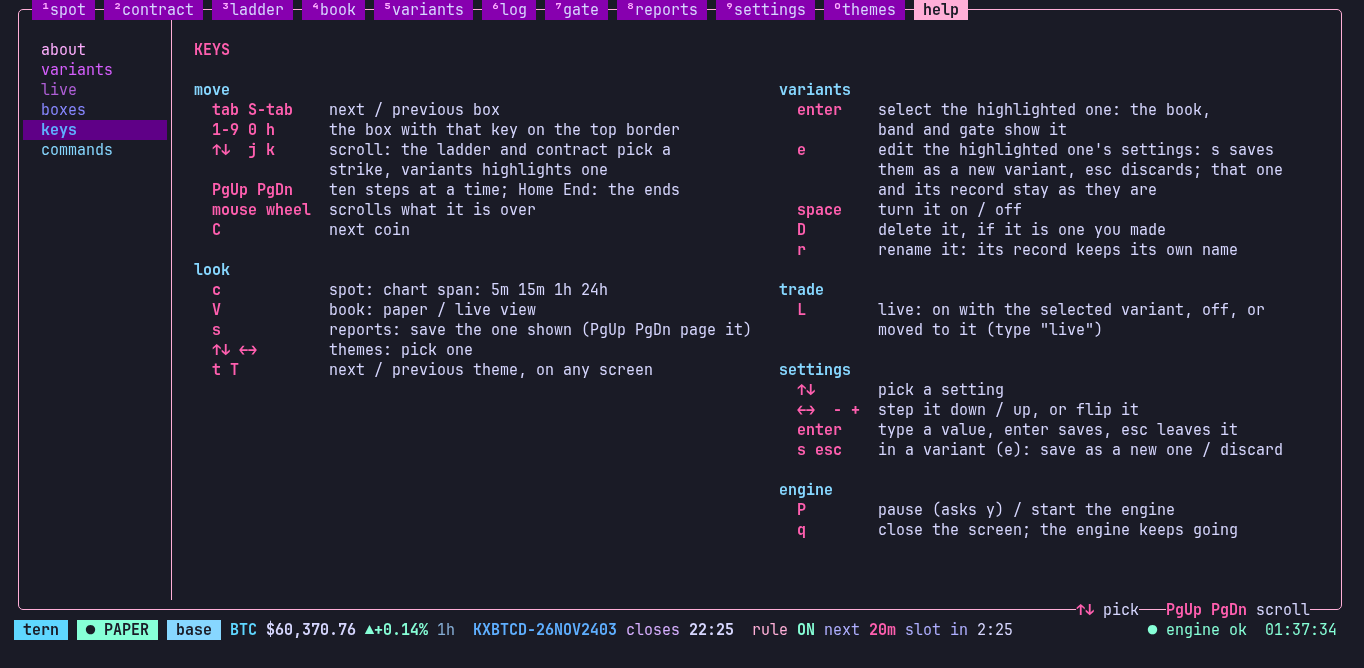
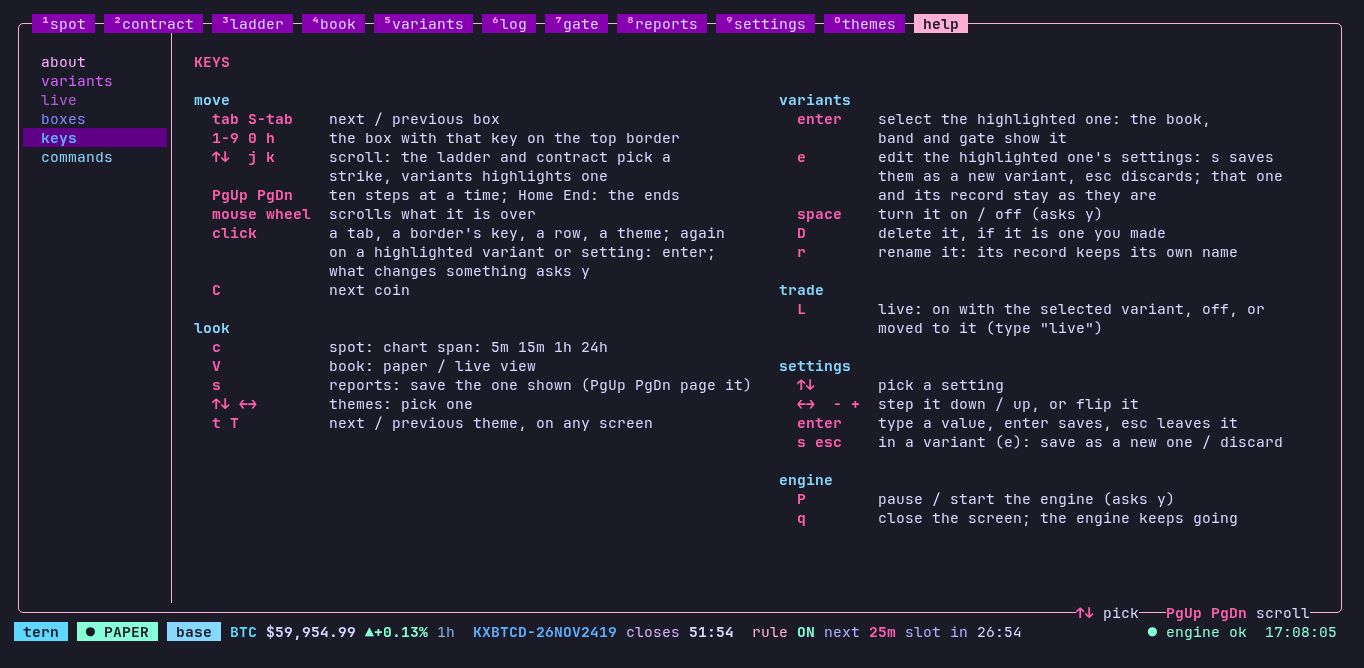
README: the mouse, the phone pages and the web screen, with screenshots

diff --git a/README.md b/README.md
@@ -241,7 +241,7 @@ Requests are signed (Ed25519 or RSA-PSS) in pure Python, checked against openssl
 |---|---|---|
 | everywhere | `1`–`9` `0` `h` `tab` shift+tab | show a box |
 | everywhere | `↑↓` `j` `k` `PgUp` `PgDn` `Home` `End` | move in the box; so does the mouse wheel |
-| everywhere | click | show the tab, press the border's key, highlight the row, use the theme, paper / live in the book; again on a highlighted variant or setting: `enter`. A click that changes something asks `y`. Shift+drag selects text |
+| everywhere | click | what the key there does: see Mouse |
 | everywhere | `t` / `T` | next / previous color theme |
 | everywhere | `P` | pause / start the engine (asks `y`) |
 | everywhere | `q` | close the screen; the engine keeps running |
@@ -256,6 +256,33 @@ Requests are signed (Ed25519 or RSA-PSS) in pure Python, checked against openssl
 | reports | `s` | save the one shown |
 | settings | `←→` `enter` | step / type a value |
 | themes | `↑↓` `←→` | pick one |
+
+### Mouse
+
+The terminal screen takes the mouse, in any terminal emulator that reports it, and so does the web screen:
+
+| Click | What it does |
+|---|---|
+| a tab | shows that box |
+| a key on a border | presses it; each of `↑↓` `←→` `PgUp PgDn` is its own |
+| a ladder, variants, reports or help row | highlights it |
+| the highlighted variant, again | `enter`: selects it |
+| a setting, in the settings or a variant's | highlights it; again: `enter`. Each slot and coin is its own |
+| a theme | uses it |
+| paper / live in the book | shows that one |
+
+The wheel scrolls what it is over, and shift+drag selects text. A click does no more than its key: going live still has
+`live` typed.
+
+**Stray clicks.** What changes something asks first, and only `y` goes ahead; any other key leaves it, and clicks do nothing
+while a question is up. Turning a variant on or off, starting and pausing the engine and deleting a variant ask whether
+they are clicked or pressed. Turning live off, changing a desk setting, discarding an edit and closing the screen ask
+when they are clicked; their keys are at once, so `L` is still the quick way out of live.
+
+<img width="1364" height="668" alt="Turning a variant off asks first" src="docs/screenshots/17-question.png" />
+
+The bare Linux console is not a terminal emulator: ncurses gets the mouse from gpm there, if it is built with it, and the
+console's fonts have no braille for the charts.
 
 ### Reports
 
@@ -292,22 +319,23 @@ accent, and color only for gains, losses and warnings. Full color needs a 256-co
 
 <img width="1364" height="668" alt="The mint chip theme" src="docs/screenshots/10-theme-mint-chip.png" />
 
+<img width="1364" height="668" alt="The grape theme" src="docs/screenshots/11-theme-grape.png" />
+
 ## The web screen
 
 `tern web` serves the screen at http://localhost:8787/ (`--port` to move it). It is not a copy of the
 screen: each browser tab runs the real screen code on a virtual terminal, and the page paints its cells
 with the colors and font from foot's config if there is one, or a built-in set. So it looks and behaves the same: the tabs, `c`
 chart span, `C` coins, `t`/`T` themes, `V` paper/live, `enter` selects a variant (for that browser),
-themes, `↑↓ ←→` and the wheel. Clicking a tab, a key on a box's border, or a ladder or variant row
-does what the key would; on a phone, drag to scroll.
+themes, `↑↓ ←→`, the wheel and clicks (see Mouse). Phones get pages of their own: see Phones.
+
+<img width="1364" height="668" alt="The spot box in a browser" src="docs/screenshots/16-web-screen.png" />
 
 It is view only. `q`, `P`, `L`, `r`, `D`, `space` and `e` do nothing there, and their
 hints are not drawn. The settings box shows the settings but changes only what that browser's log box shows.
 The web screen writes no command files and never touches the terminal's `dash.json` or `view.json`: each browser keeps its own settings. It writes `view-web.json` (in the same tmpfs folder)
 with the coins and strikes its viewers have up, so the engine sends those strikes' contract history
 too; the engine ignores the file 30 seconds after the last viewer leaves.
-
-<img width="1364" height="668" alt="The grape theme" src="docs/screenshots/11-theme-grape.png" />
 
 **Remote access.** Off localhost (`--host 0.0.0.0`) it will not start without a password and a TLS certificate.
 
@@ -332,17 +360,36 @@ Secure, SameSite=Strict cookie. After a new password, restart `tern-web`: every 
 everyone make every sign-in wait. To reach it from another network, allow the port (8787 by default) through
 the host's firewall, and forward it to the host if there is NAT in between.
 
-**Phones** get pages of their own: one at a time, with a menu button at the bottom that lists them (home, spot, ladder,
-book, variants, log, gate, reports, themes). Tap a strike or a variant to open it; hold a chart to read it. They are
-picked by the browser's headers, so tablets and computers get the screen; `full screen` in the menu, and `phone pages`
-on the screen there, switch, and the browser remembers it (`/ui/full`, `/ui/phone`). Behind the same login, view only.
-
 **Settings box (`9`), WEB.** `web screen` turns it on and off, `port` moves it and `open to the
 network` switches between every address and localhost only. tern-web.service runs
 `tern web --config`, which reads those from `config.json`'s `web` section and exits (and stays down)
 when it is off. The engine restarts or stops the service as soon as one changes, from the box or by
 hand in `config.json`, and the box shows whether it is running and where to open it. Firewall and
 port-forwarding rules are not touched: a new port needs its own.
+
+### Phones
+
+A phone gets pages made for it, one at a time. The bar along the bottom has the menu button, the coin's price and whether
+the desk is on paper or live; the menu lists the pages, with how things stand beside them.
+
+<p>
+<img width="200" alt="Home on a phone" src="docs/screenshots/18-phone-home.png" />
+<img width="200" alt="The menu" src="docs/screenshots/19-phone-menu.png" />
+<img width="200" alt="The ladder" src="docs/screenshots/20-phone-ladder.png" />
+<img width="200" alt="A strike" src="docs/screenshots/21-phone-contract.png" />
+<img width="200" alt="The variants" src="docs/screenshots/22-phone-variants.png" />
+<img width="200" alt="One variant" src="docs/screenshots/23-phone-variant.png" />
+<img width="200" alt="The spot chart" src="docs/screenshots/24-phone-spot.png" />
+<img width="200" alt="The themes" src="docs/screenshots/25-phone-themes.png" />
+</p>
+
+- **Pages:** home, spot, ladder, book, variants, log, gate, reports and themes. Tap a strike for its price this hour, a variant
+  for its record, a slot in the log for who bought. Hold a chart and slide to read it. The phone's back button goes back, and closes the menu.
+- **Which browsers:** the server picks by the browser's headers (`Sec-CH-UA-Mobile`, else the user agent). Tablets and
+  computers get the screen. `full screen` in the menu, and `phone pages` on the screen there, switch; a cookie remembers it
+  (`/ui/full`, `/ui/phone`).
+- **View only**, behind the same login. The coin, chart, variant and theme picked are that browser's own. The settings box and making variants
+  are the terminal's.
 
 ## Files
 
